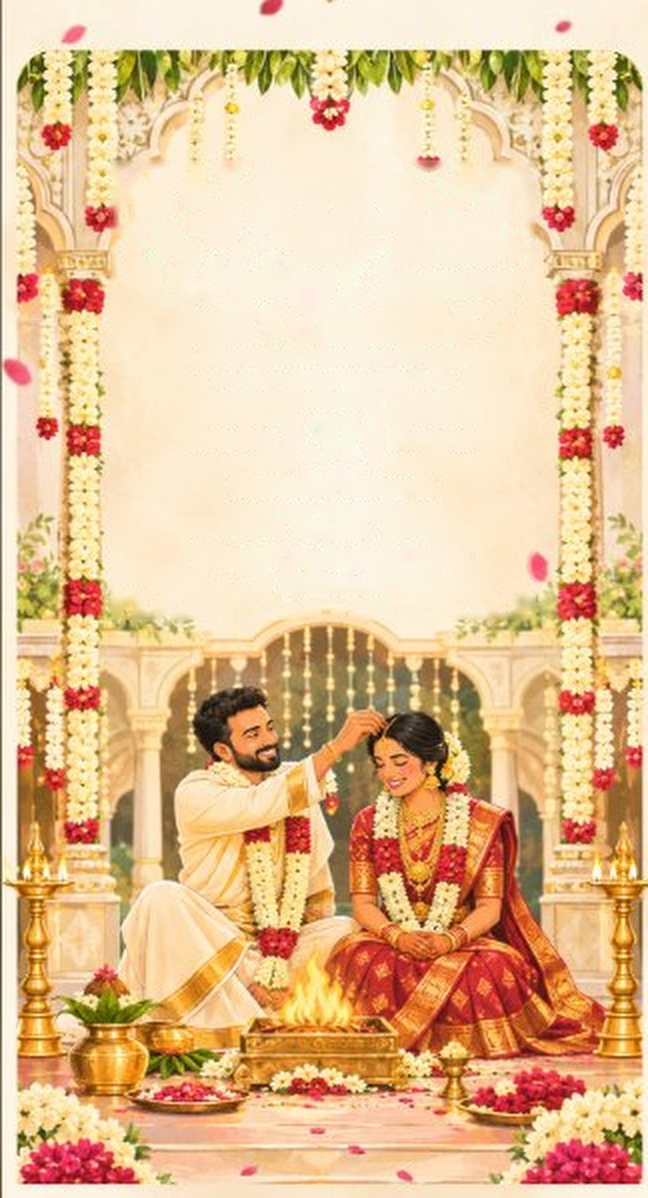
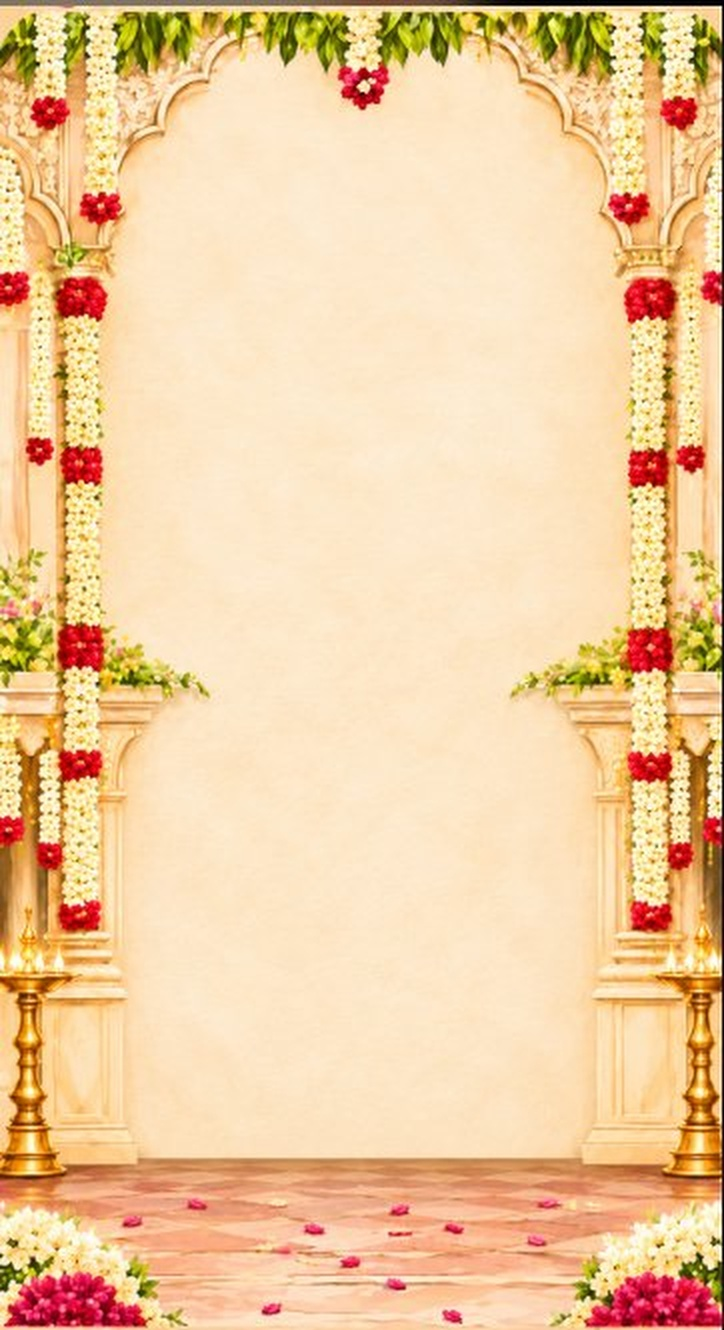
Change wedding ceremony card theme to clean floral arch background while retaining wording

diff --git a/src/App.css b/src/App.css
@@ -647,7 +647,7 @@
 .schedule-mandap-card {
   width: 100%;
   max-width: 440px;
-  aspect-ratio: 324 / 599;
+  aspect-ratio: 362 / 665;
   background: url('/mandap-arch-clean-card.jpg') no-repeat center center;
   background-size: 100% 100%;
   border-radius: 18px;
@@ -658,13 +658,13 @@
   flex-direction: column;
   align-items: center;
   justify-content: flex-start;
-  padding: 21% 16px 0 16px;
+  padding: 19% 16px 0 16px;
   box-sizing: border-box;
 }
 
 @media (max-width: 500px) {
   .schedule-mandap-card {
-    padding: 20.5% 12px 0 12px;
+    padding: 18.5% 12px 0 12px;
   }
 }
 
